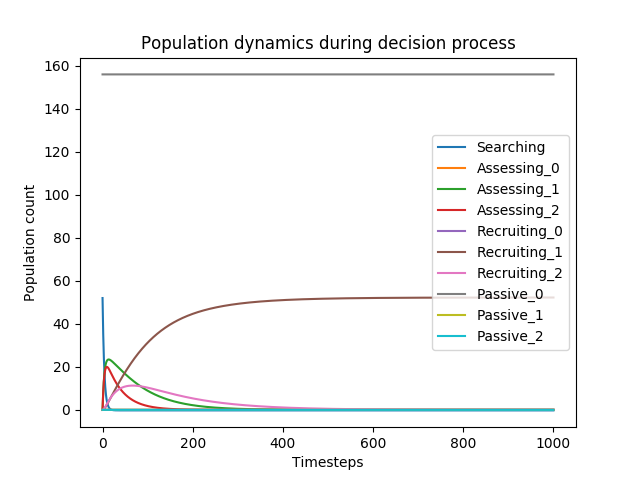
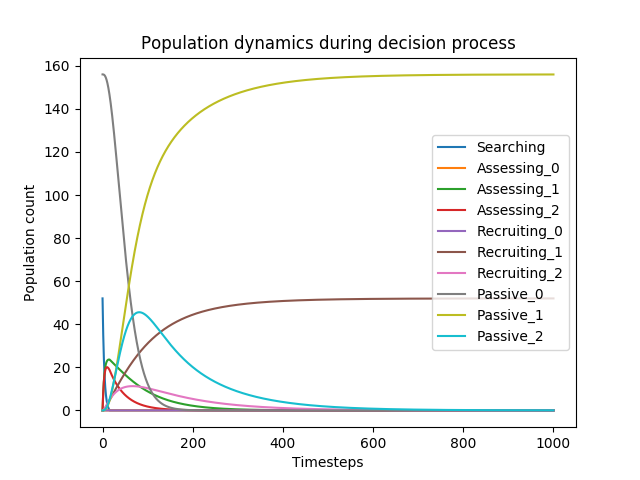
Adds fixed continuous population dynamcis

diff --git a/pratt_2002/continuous.py b/pratt_2002/continuous.py
@@ -69,9 +69,6 @@ def pack(S=0, A=[], R=[], P=[]):
 def I(Ri, S):
     return Ri if Ri < T and S > 0 else 0
 
-def J(Ri):
-    return 0 if Ri < T else Ri
-
 def dS(Population):
     S, A, R, P = unpack(Population, M)
     return (-sum(phi[i] * S + lambdas[i] * I(R[i], S)
@@ -94,10 +91,9 @@ def dRi(Population, i):
 
 def dPi(Population, i):
     S, A, R, P = unpack(Population, M)
-    return sum(tau*J(R[i])
-               - tau*J(R[j])
+    return sum(tau*P[j]*R[i]
+               - tau*P[i]*R[j]
                for j in range(M) if j != i)
-
 
 def dPopulation_dt(Population, t):
     result =  [ dS(Population)]
